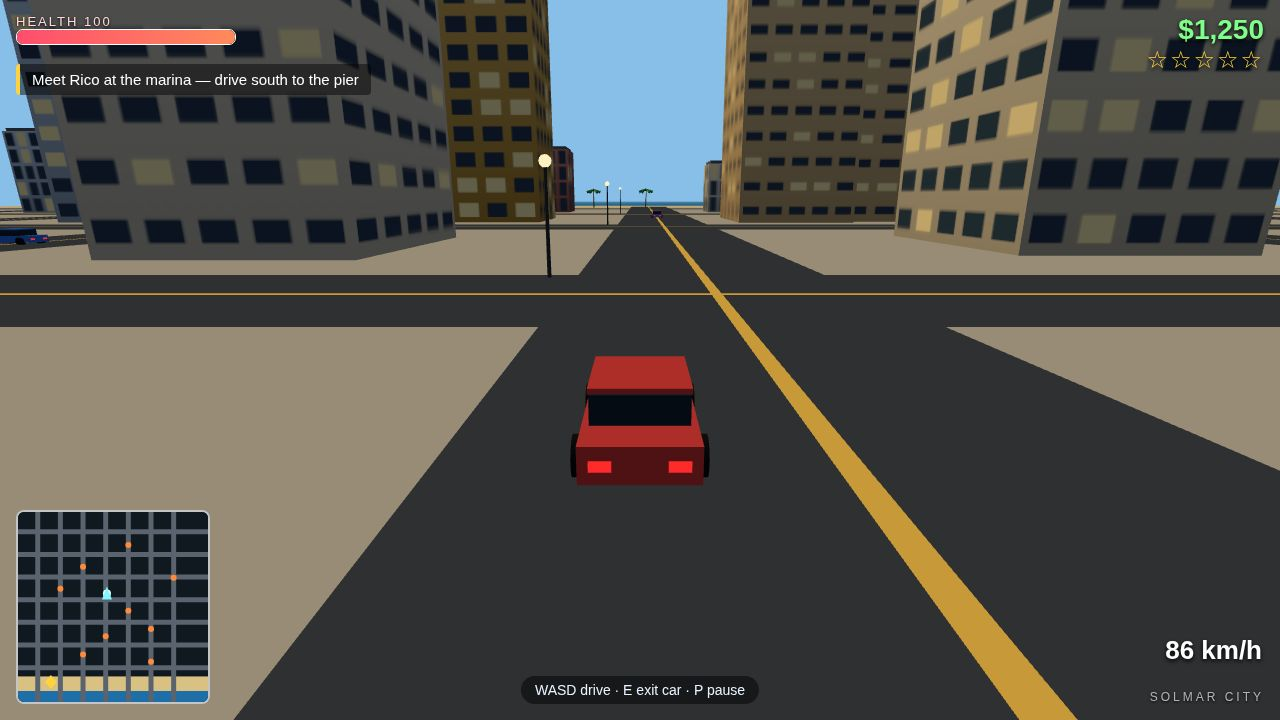
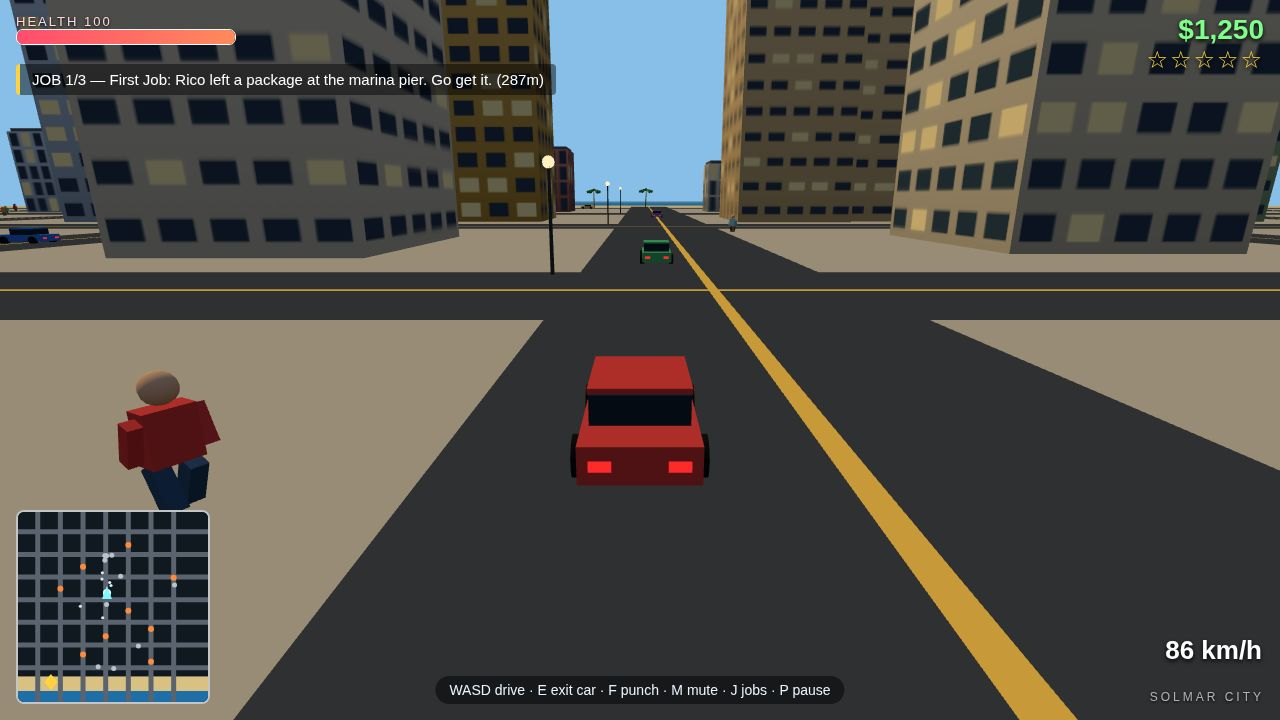
Mission pose: Mara closer to camera, facing the pier beacon

diff --git a/game/src/shots.js b/game/src/shots.js
@@ -106,18 +106,19 @@ export function stageShot(name, ctx) {
     // cruising car on the beachfront behind her.
     setTimeOfDay(ctx.scene, ctx.city, 0.75);
     missions.startMission(0);
-    player.pos.set(-138, 0, 206);
-    player.heading = Math.PI * 0.92;
+    // Mara close to the camera, facing the pier and the gold beacon.
+    player.pos.set(-142, 0, 212);
+    player.heading = -0.55;
     ctx.exitCar(true);
     const near = cars[4];
-    near.pos.set(-124, 0, 186);
+    near.pos.set(-168, 0, 186);
     near.heading = Math.PI / 2;
-    near.group.position.set(-124, 0, 186);
+    near.group.position.set(-168, 0, 186);
     near.group.rotation.y = Math.PI / 2;
     traffic.place(0, -62, 186, 'ew', 1, 10);
-    peds.place(0, -132, 198);
+    peds.place(0, -156, 200);
     peds.place(1, -146, 214);
-    ctx.setCamera(-118, 5.5, 188, -148, 3, 222);
+    ctx.setCamera(-126, 4.5, 194, -148, 3, 222);
     ctx.setState('playing');
     return 'fixed';
   }
